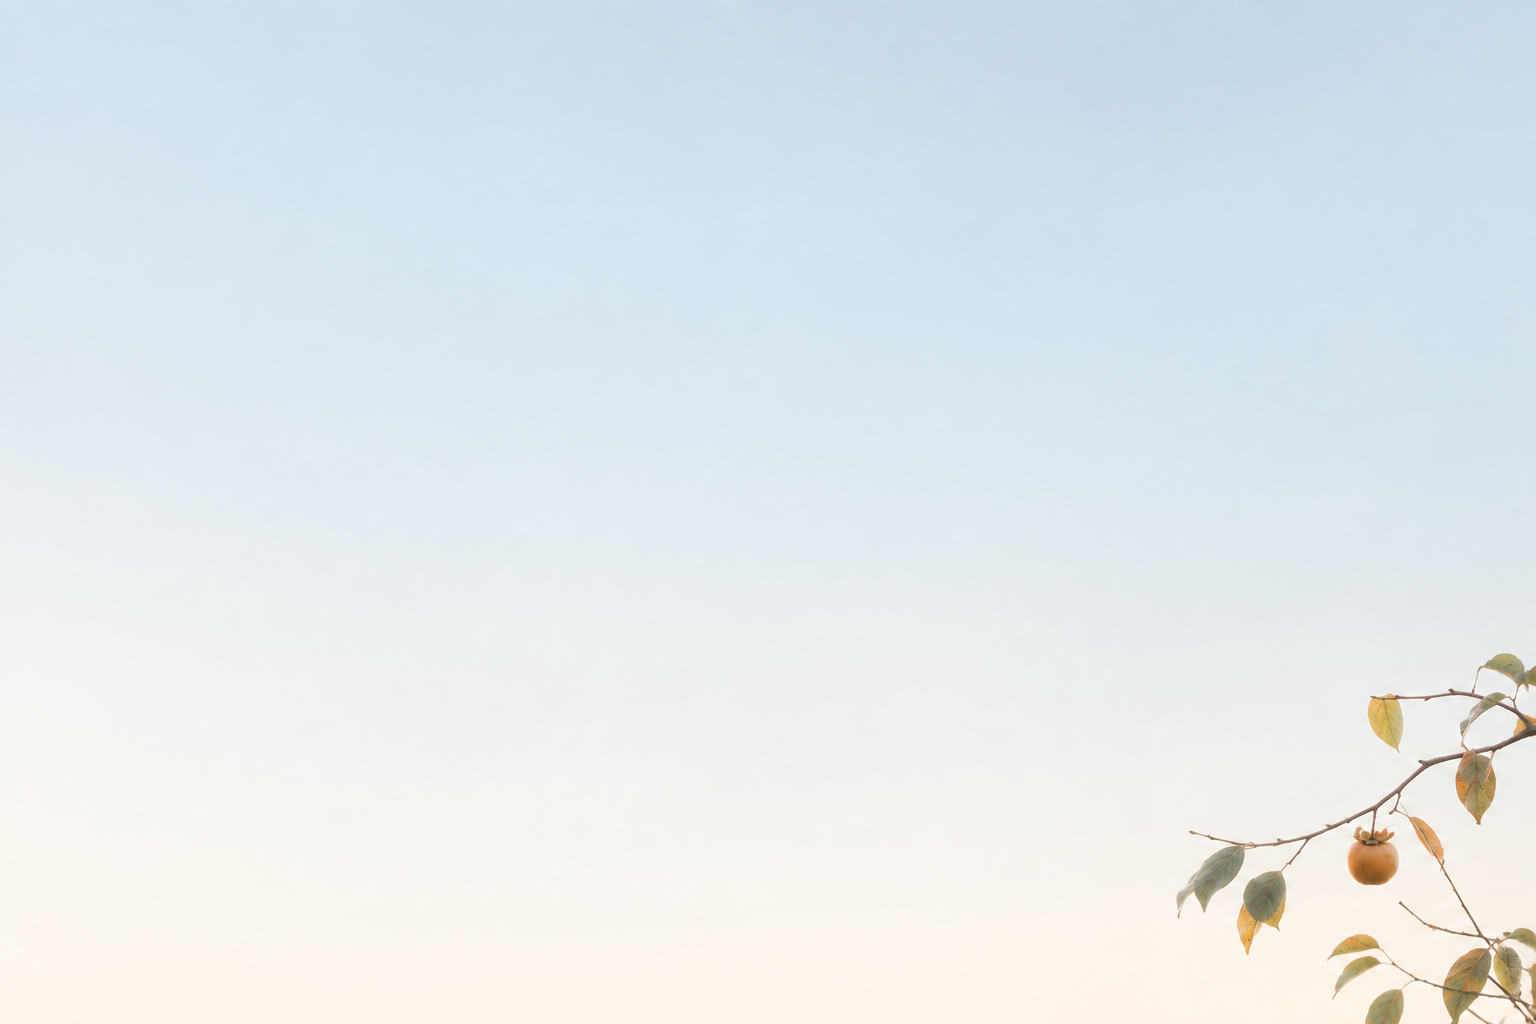
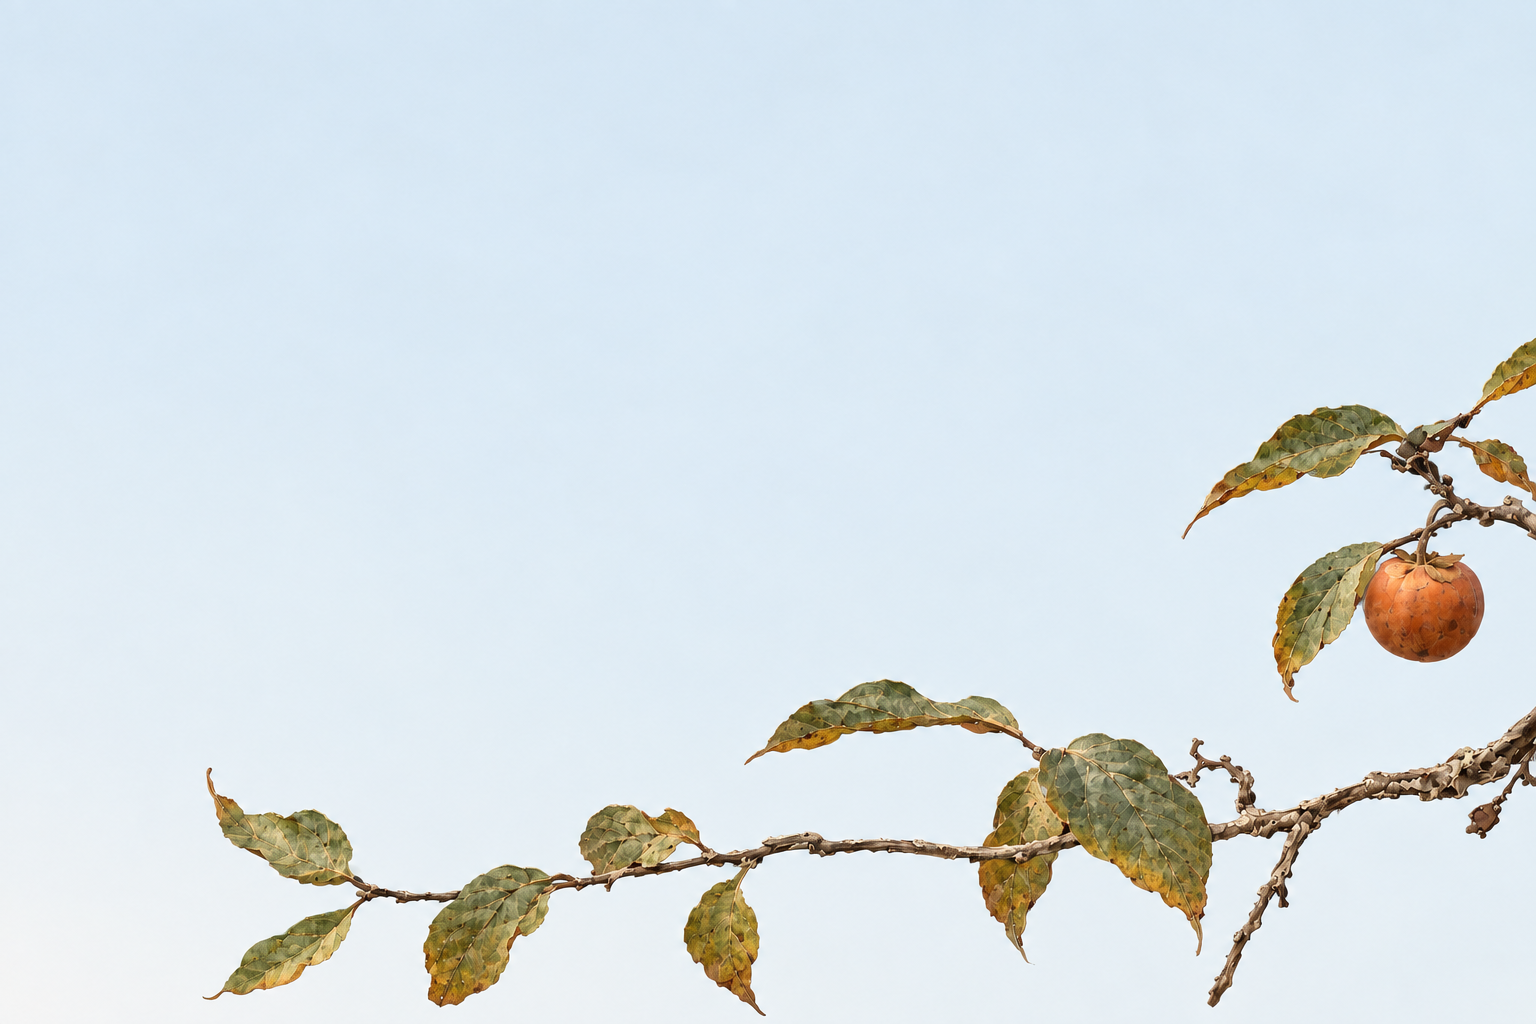
fix: preserve the night persimmon tree in daylight (#469)

Changed region(s): [[0.125, 0.3125, 1.0, 1.0], [0.875, 0.9062, 1.0, 1.0]]

diff --git a/brand/README.md b/brand/README.md
@@ -92,7 +92,9 @@ persimmon branches. Its night backdrop is generated separately without a moon,
 stars or clouds, so the atmosphere never fixes their position. Both backdrops
 are capped at 1280px wide, centered and faded at the edges; widening the window
 does not enlarge branches into the headline. The light page has an airy blue-grey
-sky, a small botanical corner and soft white sunlight. Light always shows the sun; Dark
+sky and soft white sunlight. Its tree is a daylight edit of the night original,
+preserving the branch layout and detailed leaves with muted green/ochre foliage
+and orange fruit. Light always shows the sun; Dark
 always shows the moon; Auto uses the visitor's local 06:00–18:00 day convention.
 The body crosses left to right over each 12-hour arc, highest at noon/midnight.
 Positions refresh each second, so real-time motion is intentionally very slow.
@@ -152,7 +154,7 @@ clear wherever the corresponding feature is explained.
 | `site/img/persimmon-wash.webp` | Original paper illustration retained for the share card |
 | `site/img/sun.png`, `moon.png` | Earlier generated sky textures, retained as source references |
 | `site/img/moon-full.png`, `moon-crescent.png`, `moon-quarter.png`, `moon-gibbous.png` | Generated transparent lunar key phases |
-| `site/img/day-garden.png`, `sun-daylight.png` | Airy daylight backdrop and soft photographic sun |
+| `site/img/day-garden.png`, `sun-daylight.png` | Daylight relighting of the night persimmon composition and soft photographic sun |
 | `site/img/night-garden.png`, `moonlit-wisp.png` | Generated night backdrop and transparent moving cirrus layer |
 | `site/img/cloud-1.webp` … `cloud-3-light.webp` | Ink-wash cloud banks for dark ground and paper; regenerate with `brand/clouds.py` |
 | `site/img/task.png`, `task-light.png`, `board.png` | Actual board with scripted, cost-free work |

diff --git a/docs/branding.md b/docs/branding.md
@@ -161,7 +161,9 @@ ChatGPT Image로 만든 [선택 시안](assets/branding/logo-persimmon-concept.p
 랜딩은 가운데 정렬한 영문 제목과 옅은 감나무 담채 그림을 사용한다.
 밤에는 멀리 있는 질감 있는 달, 얇은 달빛 구름, 가까운 먹빛 가지를 겹쳐 거리감을 만든다.
 배경에는 달·별·구름을 그려 넣지 않고 별도 레이어로 둔다. 낮은 옅은 청회색 하늘과
-부드러운 흰 햇빛, 작은 감나무 가지로 표현한다. 배경 그림 너비를 최대 1280px로 제한해
+부드러운 흰 햇빛, 밤과 같은 구도의 감나무 가지로 표현한다. 밤 원본을 낮빛으로 바꿔
+잎맥과 주름, 가지의 질감을 유지하고 잎에는 차분한 녹색·황토색, 감에는 주황색을 입힌다.
+배경 그림 너비를 최대 1280px로 제한해
 큰 화면에서도 가지가 제목을 침범하도록 확대되지 않게 하고, 양옆과 아래를 자연스럽게 흐린다.
 Light는 해, Dark는 달이며 Auto는 기기의 현지 시각 06–18시에 해, 그 밖에는 달이다.
 해와 달은 12시간에 걸쳐 왼쪽에서 오른쪽으로 이동하고 정오·자정에 가장 높다.
